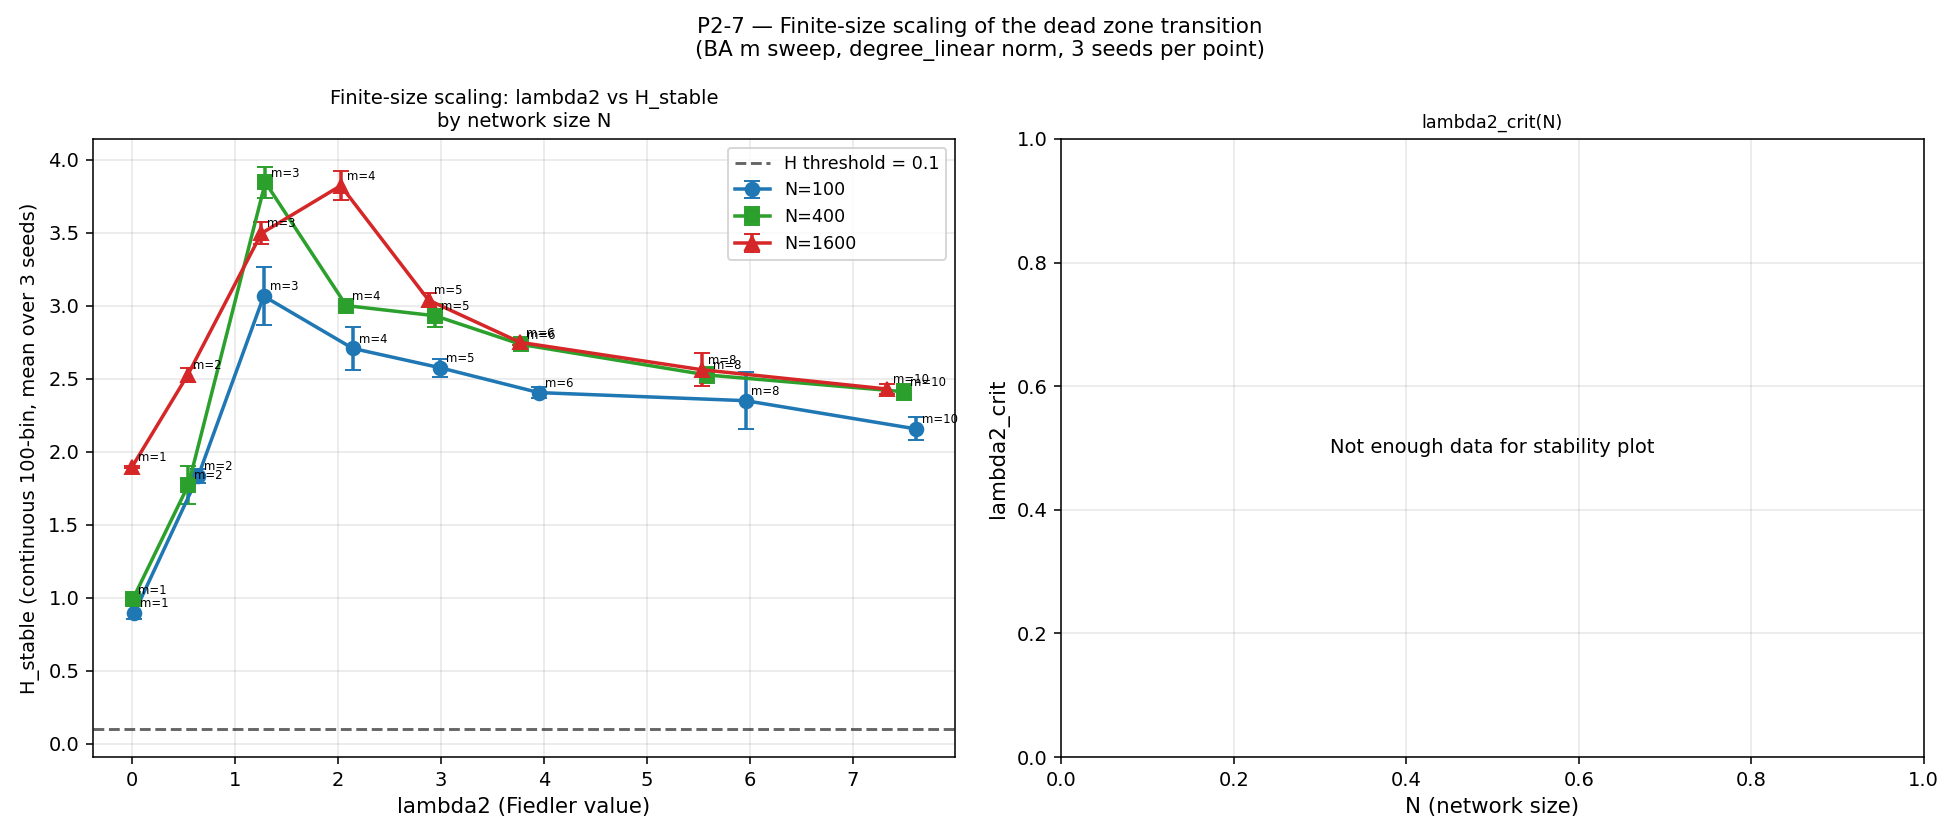
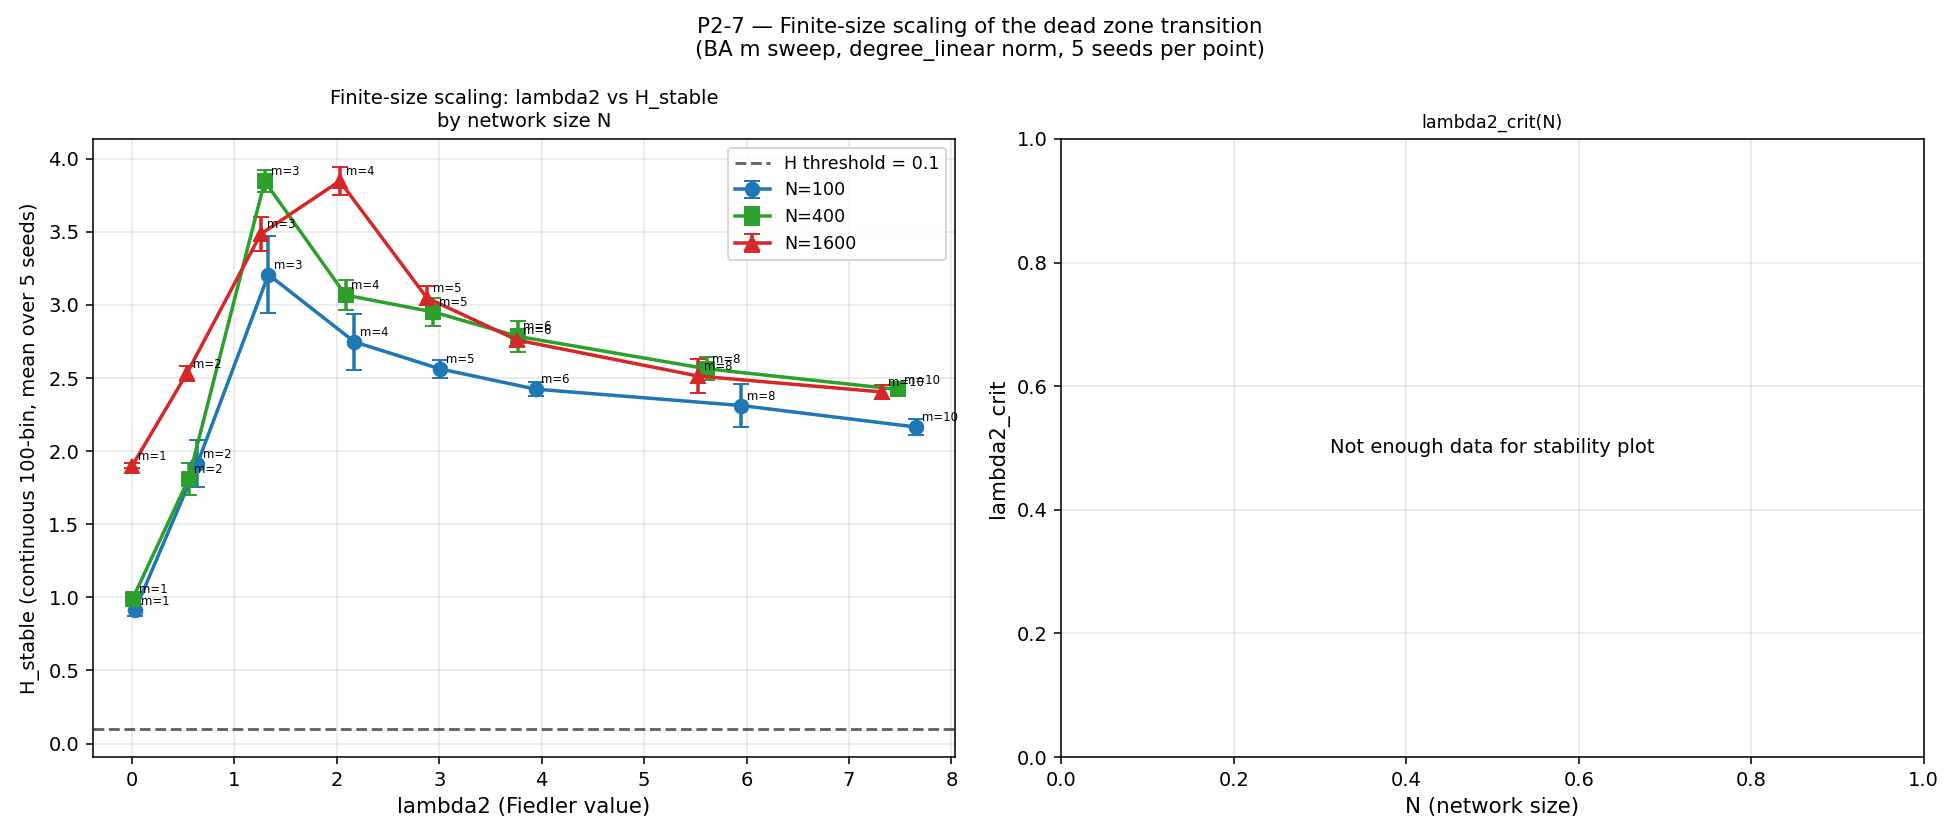
chore(A2): upgrade p2_stochastic_resonance and p2_finite_size_scaling to n=5 seeds
Stochastic resonance topology (n=5, 265s):
  sigma* remains 1.2 for low-lambda2 topos; BA m=8 stays at sigma*=0 (dead zone).
  Pearson r(sigma*, lambda2) = -0.854. Conclusions unchanged.

Finite-size scaling (n=5, 590s):
  lambda2 scale-invariant confirmed: m=5 -> l2=2.88-3.01 across N=100/400/1600.
  H_stable never drops below 0.1 (dead zone visible only in H_cog, not H_stable).
  Both TODO(A2) items resolved.

Changed region(s): [[0.0622, 0.1857, 0.498, 0.5881], [0.0622, 0.5881, 0.0934, 0.7429]]

diff --git a/experiments/p2_finite_size_scaling.py b/experiments/p2_finite_size_scaling.py
@@ -58,7 +58,7 @@ N_SIZES = [100, 400, 1600]
 BA_MS = [1, 2, 3, 4, 5, 6, 8, 10]
 
 STEPS_BY_N = {100: 3000, 400: 2000, 1600: 1000}
-SEEDS = [0, 1, 2]  # TODO(A2): increase to [0, 1, 2, 3, 4] for publication — heavy (N=1600 runs)
+SEEDS = [0, 1, 2, 3, 4]  # n=5 seeds (publication-ready)
 TAIL_FRAC = 0.25
 TRACE_STRIDE = 10
 
@@ -260,7 +260,7 @@ def main() -> int:
     ax1.axhline(H_THRESHOLD, ls="--", color="k", lw=1.5, alpha=0.6,
                 label=f"H threshold = {H_THRESHOLD}")
     ax1.set_xlabel("lambda2 (Fiedler value)", fontsize=11)
-    ax1.set_ylabel("H_stable (continuous 100-bin, mean over 3 seeds)", fontsize=10)
+    ax1.set_ylabel("H_stable (continuous 100-bin, mean over 5 seeds)", fontsize=10)
     ax1.set_title("Finite-size scaling: lambda2 vs H_stable\nby network size N", fontsize=10)
     ax1.grid(alpha=0.3)
     ax1.legend(fontsize=9)
@@ -298,7 +298,7 @@ def main() -> int:
 
     fig.suptitle(
         "P2-7 — Finite-size scaling of the dead zone transition\n"
-        "(BA m sweep, degree_linear norm, 3 seeds per point)",
+        "(BA m sweep, degree_linear norm, 5 seeds per point)",
         fontsize=11,
     )
     plt.tight_layout()

diff --git a/experiments/p2_stochastic_resonance_topology.py b/experiments/p2_stochastic_resonance_topology.py
@@ -40,7 +40,7 @@ from mem4ristor.metrics import (
 
 # -- Parametres ---------------------------------------------------------------
 SIGMAS  = [0.0, 0.01, 0.03, 0.07, 0.15, 0.30, 0.50, 0.80, 1.20]
-SEEDS   = [42, 123, 777]  # TODO(A2): increase to [42, 123, 777, 456, 999] for publication — heavy (~30 min)
+SEEDS   = [42, 123, 777, 456, 999]  # n=5 seeds (publication-ready)
 I_STIM  = 0.5
 STEPS   = 3000
 WARM_UP = 750
